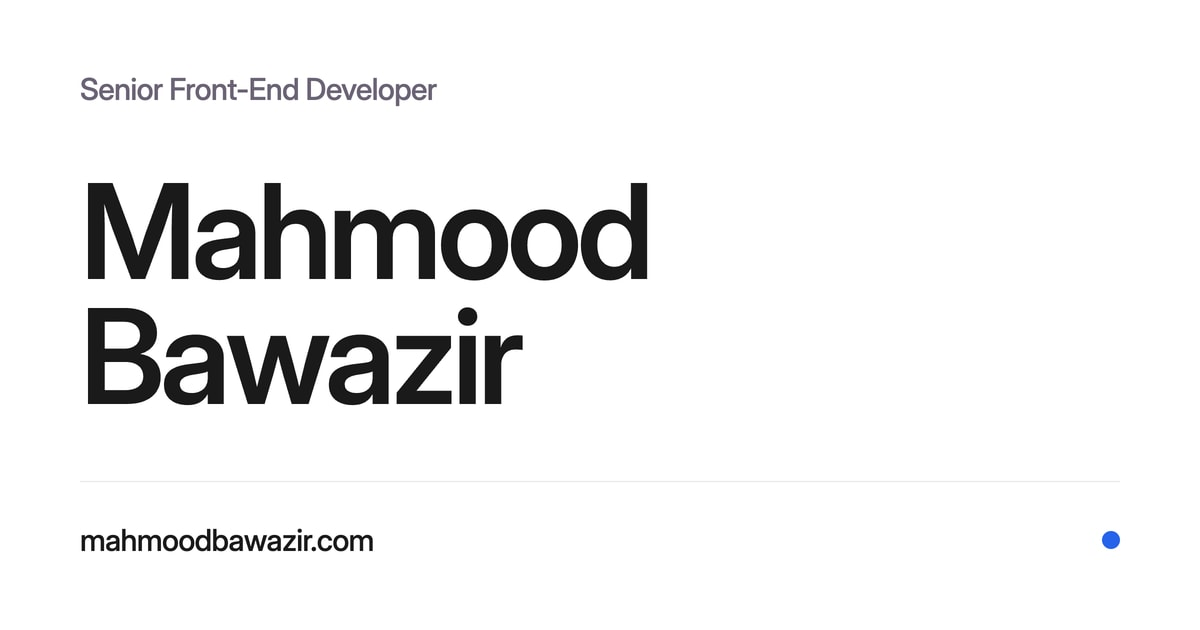
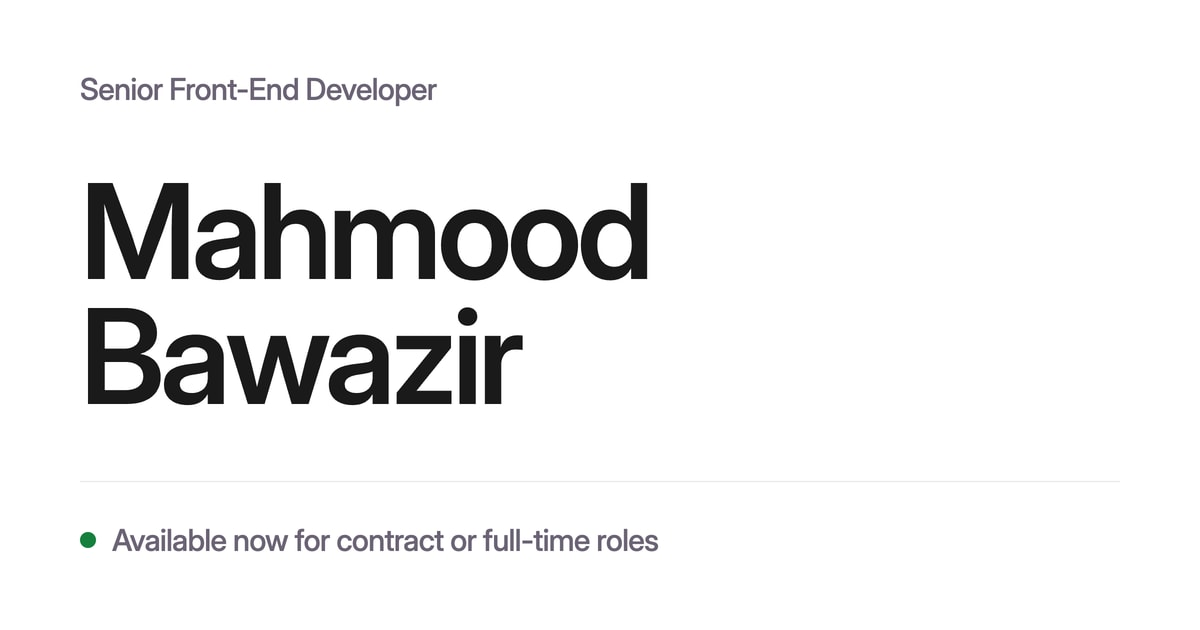
fix Open Graph image and mobile hero

Changed region(s): [[0.0617, 0.8444, 0.555, 0.8746], [0.8942, 0.8444, 0.9558, 0.8746]]

diff --git a/src/scss/partials/_intro.scss b/src/scss/partials/_intro.scss
@@ -65,7 +65,7 @@
 
 /* Sits under the tagline, sharing its column and left edge. */
 .intro-meta {
-  margin-top: 1.75em;
+  margin-top: 1em;
 
   .availability {
     opacity: 0;
@@ -82,17 +82,12 @@
   color: $brand-muted;
 }
 
-/* The shared dot carries a halo and a pulse for the footer. The hero wants
-   a plain mark. */
+/* Same heartbeat as the footer, at the hero's 8px size. The standing halo
+   stays off so the mark doesn't sit heavier than the muted line. */
 .intro-availability .availability-dot {
   width: 8px;
   height: 8px;
   box-shadow: none;
-
-  &::after {
-    content: none;
-    animation: none;
-  }
 }
 
 .link-block-wrapper {
@@ -172,7 +167,7 @@
 
   .link-block-wrapper {
     order: 2;
-    margin-top: 2em;
+    margin-top: 1em;
     margin-bottom: 3em;
   }
 
@@ -184,6 +179,10 @@
     order: 3;
     width: 100%;
     overflow: hidden;
+  }
+
+  .intro-availability {
+    font-size: 1em;
   }
 
   .text-style-heading-s {

diff --git a/scripts/og-template.html b/scripts/og-template.html
@@ -52,9 +52,13 @@
         justify-content: space-between;
       }
 
-      .domain {
+      .availability {
+        display: flex;
+        align-items: center;
+        gap: 16px;
         font-size: 30px;
         letter-spacing: -0.02em;
+        color: #6b6375;
       }
 
       .rule {
@@ -64,10 +68,11 @@
       }
 
       .dot {
-        width: 18px;
-        height: 18px;
+        width: 16px;
+        height: 16px;
         border-radius: 50%;
-        background-color: #2563eb;
+        background-color: #15803d;
+        flex: 0 0 auto;
       }
     </style>
   </head>
@@ -79,8 +84,7 @@
     <div>
       <div class="rule"></div>
       <div class="foot">
-        <p class="domain">mahmoodbawazir.com</p>
-        <span class="dot"></span>
+        <p class="availability"><span class="dot"></span>Available now for contract or full-time roles</p>
       </div>
     </div>
   </body>
